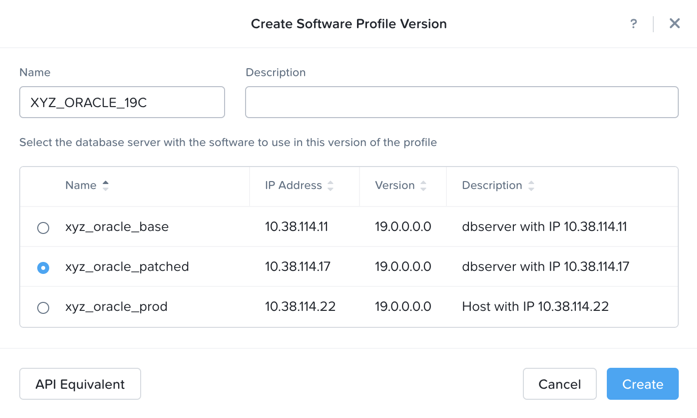
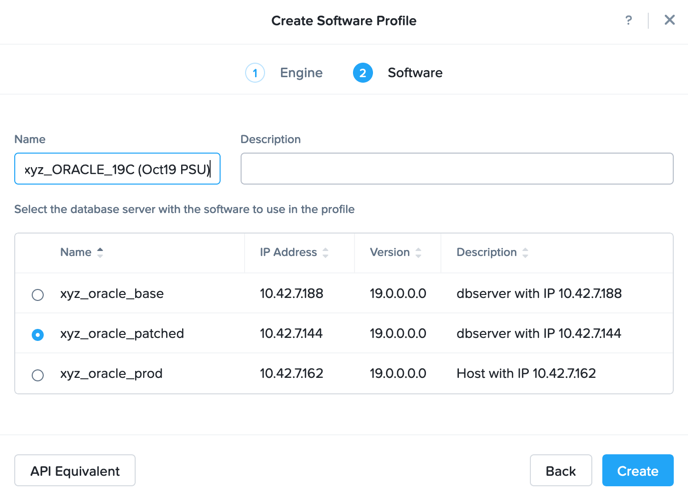
Updates for Patching Lab

diff --git a/patching_oracle/patching_oracle.rst b/patching_oracle/patching_oracle.rst
@@ -50,13 +50,17 @@ In this exercise, you will apply the October PSU patches to your manually cloned
 
    .. figure:: images/9.png
 
-#. Click **Register** and monitor the progress on the **Operations** page. This process should take approximately 2 minutes.
+#. Click **Register**
+
+#. Monitor the progress on the **Operations** page. This process should take approximately 5 minutes.
 
 #. Once registration completes, select **Era > Profiles > Software** and click your *Initials*\ **_ORACLE_19C** Software Profile. Observe that Era provides complete introspection into the packages installed within the operating system, including the **Database Software** and **Grid Software**. Note the **Patches Found** under **Database Software**.
 
    .. figure:: images/10.png
 
 #. With your *Initials*\ **_ORACLE_19C** Software Profile selected, click **+ Create** to create a new version based on the *Initials*\ **_oracle_patched** VM you registered in the previous step.
+
+   .. figure:: images/10b.png
 
 #. Fill out the following fields and click **Create**:
 
@@ -121,7 +125,6 @@ Takeaways
 
 What are the key things we learned in this lab?
 
-- Era can make you 3 inches taller, and help bring in your groceries from the car
 - Software Profiles can be versioned and used to deploy consistent updates to existing database servers
 - Software Profiles also simplify the patching process reducing the amount of manual patching needed in an environment
 - Scheduling updates can be used to hit change windows or SLA uptime windows.
